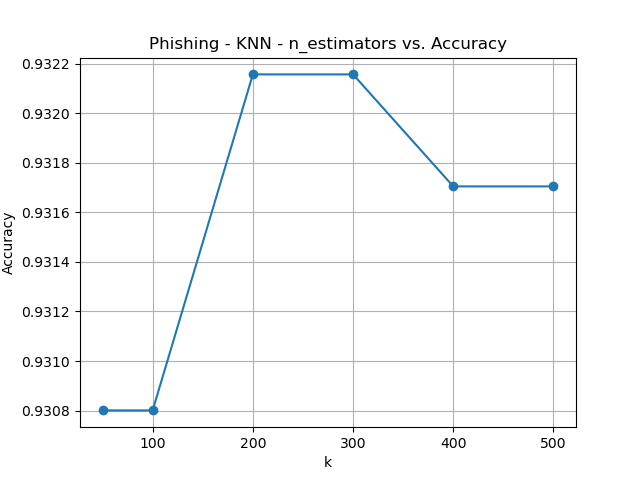
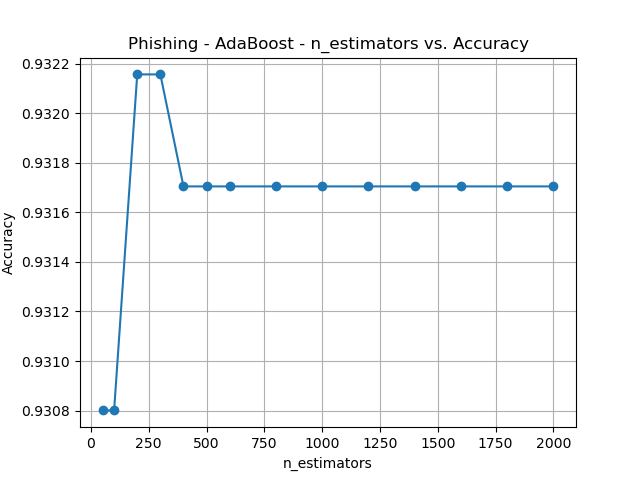
adaboost changes

diff --git a/experiments/adaboost_experiments.py b/experiments/adaboost_experiments.py
@@ -21,7 +21,7 @@ def adaboost_basics():
         df, X, y = get_dataset(dataset)
         X_train, X_test, y_train, y_test = train_test_split(X, y, test_size=0.2, random_state=RANDOM_STATE)
 
-        logger.info(f"===== AdaBoost ({dataset})... =====")
+        logger.info(f"=== AdaBoost ({dataset})... ===")
         _, metrics_dict = adaboost_learner(X_train, y_train, X_test, y_test)
         output_dict[dataset] = metrics_dict
 
@@ -34,7 +34,7 @@ def adaboost_effect_of_n_estimators():
 
     Output for the paper are two plots (one per dataset) of n_estimators vs. accuracy.
     """
-    n_estimators = [50, 100, 200, 300, 400, 500]
+    n_estimators = [50, 100, 200, 300, 400, 500, 600, 800, 1000, 1200, 1400, 1600, 1800, 2000]
     datasets = ["census", "phishing"]
     output_dict = dict()
 
@@ -45,7 +45,7 @@ def adaboost_effect_of_n_estimators():
         X_train, X_test, y_train, y_test = train_test_split(X, y, test_size=0.2, random_state=RANDOM_STATE)
 
         for n in n_estimators:
-            logger.info(f"===== KNN ({dataset}, n_estimators={n})... =====")
+            logger.info(f"=== AdaBoost ({dataset}, n_estimators={n})... ===")
             _, metrics_dict = adaboost_learner(X_train, y_train, X_test, y_test, n_estimators=n)
             output_dict[dataset][n] = metrics_dict
 
@@ -54,4 +54,4 @@ def adaboost_effect_of_n_estimators():
     # plot:
     for dataset in datasets:
         y = [output_dict[dataset][x]["acc"] for x in n_estimators]
-        line_graph(n_estimators, y, "k", "Accuracy", f"{dataset.title()} - KNN - n_estimators vs. Accuracy", f"output/plots/{dataset}_adaboost_n_estimators_vs_acc.png")
+        line_graph(n_estimators, y, "n_estimators", "Accuracy", f"{dataset.title()} - AdaBoost - n_estimators vs. Accuracy", f"output/plots/{dataset}_adaboost_n_estimators_vs_acc.png")

diff --git a/experiments/nn_experiments.py b/experiments/nn_experiments.py
@@ -21,7 +21,7 @@ def nn_basics():
         df, X, y = get_dataset(dataset)
         X_train, X_test, y_train, y_test = train_test_split(X, y, test_size=0.2, random_state=RANDOM_STATE)
 
-        logger.info(f"===== NN ({dataset})... =====")
+        logger.info(f"=== NN ({dataset})... ===")
         _, metrics_dict = neural_network_learner(X_train, y_train, X_test, y_test)
         output_dict[dataset] = metrics_dict
 
@@ -45,7 +45,7 @@ def nn_effect_of_max_iter():
         X_train, X_test, y_train, y_test = train_test_split(X, y, test_size=0.2, random_state=RANDOM_STATE)
 
         for max_iter in max_iters:
-            logger.info(f"===== NN ({dataset}, max_iter={max_iter})... =====")
+            logger.info(f"=== NN ({dataset}, max_iter={max_iter})... ===")
             _, metrics_dict = neural_network_learner(X_train, y_train, X_test, y_test, random_state=RANDOM_STATE, max_iter=max_iter)
             output_dict[dataset][max_iter] = metrics_dict
 
@@ -72,7 +72,7 @@ def nn_grid_search_activation_and_alpha():
         df, X, y = get_dataset(dataset)
         X_train, X_test, y_train, y_test = train_test_split(X, y, test_size=0.2, random_state=RANDOM_STATE)
 
-        logger.info(f"===== NN Grid Search ({dataset})... =====")
+        logger.info(f"=== NN Grid Search ({dataset})... ===")
         optimal_activation, optimal_alpha = neural_network_grid_search(X_train, y_train, X_test, y_test, RANDOM_STATE, possible_activation, possible_alpha)
         _, metrics_dict = neural_network_learner(X_train, y_train, X_test, y_test, random_state=RANDOM_STATE, activation=optimal_activation, alpha=optimal_alpha)
         output_dict[dataset] = {"optimal_alpha": optimal_alpha, "optimal_activation": optimal_activation, "acc": metrics_dict["acc"]}

diff --git a/experiments/svm_experiments.py b/experiments/svm_experiments.py
@@ -24,7 +24,7 @@ def svm_rbf_vs_sigmoid():
         X_train, X_test, y_train, y_test = train_test_split(X, y, test_size=0.2, random_state=RANDOM_STATE)
 
         for kernel in ["rbf", "sigmoid"]:
-            logger.info(f"===== SVM ({dataset}, {kernel})... =====")
+            logger.info(f"=== SVM ({dataset}, {kernel})... ===")
             _, svm_metrics_dict = svm_learner(X_train, y_train, X_test, y_test, kernel=kernel, random_state=RANDOM_STATE)
             output_dict[dataset][kernel] = svm_metrics_dict["acc"]
 
@@ -38,7 +38,7 @@ def svm_effect_of_max_iter():
 
     Output for the paper are two plots (one per dataset) of max_iter vs. accuracy.
     """
-    max_iters = [50, 100, 200, 500, 750]
+    max_iters = [50, 100, 200, 400, 600, 800, 1000, 1200, 1400, 1600, 1800, 2000]
     datasets = ["census", "phishing"]
     output_dict = dict()
 
@@ -49,7 +49,7 @@ def svm_effect_of_max_iter():
         X_train, X_test, y_train, y_test = train_test_split(X, y, test_size=0.2, random_state=RANDOM_STATE)
 
         for max_iter in max_iters:
-            logger.info(f"===== SVM ({dataset}, max_iter={max_iter})... =====")
+            logger.info(f"=== SVM ({dataset}, max_iter={max_iter})... ===")
             _, metrics_dict = svm_learner(X_train, y_train, X_test, y_test, kernel="rbf", random_state=RANDOM_STATE, max_iter=max_iter)
             output_dict[dataset][max_iter] = metrics_dict
 

diff --git a/experiments/phishing_decision_tree_with_fewer_features.py b/experiments/phishing_decision_tree_with_fewer_features.py
@@ -27,7 +27,7 @@ def phishing_decision_tree_with_five_features():
     X_train, X_test, y_train, y_test = train_test_split(X, y, test_size=0.2, random_state=RANDOM_STATE)
 
     # decision tree:
-    logger.info("===== phishing_decision_tree_with_five_features... =====")
+    logger.info("=== phishing_decision_tree_with_five_features... ===")
     dt, dt_metrics_dict = decision_tree_learner(X_train, y_train, X_test, y_test, max_depth=None)
 
     # write metrics to a file:
@@ -35,7 +35,7 @@ def phishing_decision_tree_with_five_features():
 
     # export a mostly-useless plot to show complexity of the pruned tree:
     filename = "output/plots/phishing_decision_tree_with_five_features.png"
-    logger.info(f"===== exporting {filename}... =====")
+    logger.info(f"=== exporting {filename}... ===")
     plt_clear()
     plt.figure(figsize=(30, 30))  # need a lot of room
     plot_tree(dt, feature_names=df.columns)
@@ -62,7 +62,7 @@ def phishing_decision_tree_with_ten_features():
     X_train, X_test, y_train, y_test = train_test_split(X, y, test_size=0.2, random_state=RANDOM_STATE)
 
     # decision tree:
-    logger.info("===== phishing_decision_tree_with_ten_features... =====")
+    logger.info("=== phishing_decision_tree_with_ten_features... ===")
     dt, dt_metrics_dict = decision_tree_learner(X_train, y_train, X_test, y_test, max_depth=None)
 
     # write metrics to a file:

diff --git a/experiments/dt_experiments.py b/experiments/dt_experiments.py
@@ -21,7 +21,7 @@ def dt_basics():
         df, X, y = get_dataset(dataset)
         X_train, X_test, y_train, y_test = train_test_split(X, y, test_size=0.2, random_state=RANDOM_STATE)
 
-        logger.info(f"===== DT ({dataset})... =====")
+        logger.info(f"=== DT ({dataset})... ===")
         _, metrics_dict = decision_tree_learner(X_train, y_train, X_test, y_test)
         output_dict[dataset] = metrics_dict
 
@@ -45,7 +45,7 @@ def dt_effect_of_max_depth():
         X_train, X_test, y_train, y_test = train_test_split(X, y, test_size=0.2, random_state=RANDOM_STATE)
 
         for max_depth in max_depths:
-            logger.info(f"===== DT ({dataset}, max_depth={max_depth})... =====")
+            logger.info(f"=== DT ({dataset}, max_depth={max_depth})... ===")
             _, metrics_dict = decision_tree_learner(X_train, y_train, X_test, y_test, max_depth=max_depth)
             output_dict[dataset][max_depth] = metrics_dict
 

diff --git a/experiments/knn_experiments.py b/experiments/knn_experiments.py
@@ -21,7 +21,7 @@ def knn_basics():
         df, X, y = get_dataset(dataset)
         X_train, X_test, y_train, y_test = train_test_split(X, y, test_size=0.2, random_state=RANDOM_STATE)
 
-        logger.info(f"===== KNN ({dataset})... =====")
+        logger.info(f"=== KNN ({dataset})... ===")
         _, metrics_dict = knn_learner(X_train, y_train, X_test, y_test)
         output_dict[dataset] = metrics_dict
 
@@ -45,7 +45,7 @@ def knn_effect_of_k():
         X_train, X_test, y_train, y_test = train_test_split(X, y, test_size=0.2, random_state=RANDOM_STATE)
 
         for k in ks:
-            logger.info(f"===== KNN ({dataset}, k={k})... =====")
+            logger.info(f"=== KNN ({dataset}, k={k})... ===")
             _, metrics_dict = knn_learner(X_train, y_train, X_test, y_test, n_neighbors=k)
             output_dict[dataset][k] = metrics_dict
 

diff --git a/experiments/train_test_split_effect.py b/experiments/train_test_split_effect.py
@@ -25,12 +25,12 @@ def train_test_split_effect():
     output_dict = dict()
     for dataset in ["census", "phishing"]:
         output_dict[dataset] = dict()
-        logger.info(f"===== Running for dataset={dataset}... =====")
+        logger.info(f"=== Running for dataset={dataset}... ===")
         df, X, y = get_dataset(dataset)
 
         for test_size in [0.15, 0.25]:
             output_dict[dataset][test_size] = dict()
-            logger.info(f"===== Running for test_size={test_size}... =====")
+            logger.info(f"=== Running for test_size={test_size}... ===")
 
             # train-test split:
             X_train, X_test, y_train, y_test = train_test_split(X, y, test_size=0.2, random_state=RANDOM_STATE)
